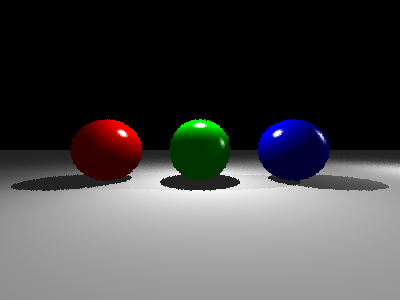
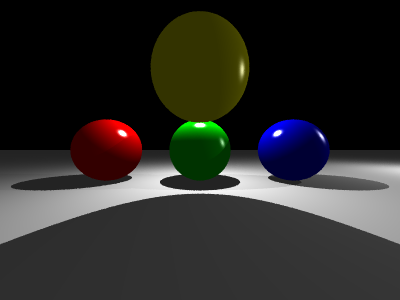
Include parallelization of render process

diff --git a/camera.py b/camera.py
@@ -9,7 +9,25 @@ from tqdm import tqdm
 from world import World
 from light import Light
 
-# NOTE: Maybe create a function to get position of pixel based on input i, j (function receives pixel position i, j and returns its 3D position)
+from multiprocessing import Pool, cpu_count
+
+# Função auxiliar para inicializar cada processo com o objeto self
+def _init_process(camera):
+    global global_camera
+    global_camera = camera
+
+# Função global para processar um único pixel
+def _process_pixel(pixel_coords):
+    i, j = pixel_coords
+    pixel_color = np.array([0.0, 0.0, 0.0])
+
+    for sample in range(global_camera.samples_per_pixel):
+        ray = global_camera.sample_ray(i, j)
+        pixel_color += global_camera.ray_color(ray)
+
+    avg_samples_color = np.divide(pixel_color, global_camera.samples_per_pixel)
+    return j, i, utils.write_color(avg_samples_color)
+
 class Camera:
     def __init__(
             self, 
@@ -20,7 +38,7 @@ class Camera:
             width:int = 400,
             center:np.ndarray = np.array([0.0, 0.0, 1.0]),
             focal_lenght:float = 1.0,
-            samples_per_pixel:int = 1,
+            samples_per_pixel:int = 20,
 
         ) -> None:
         # Default data
@@ -65,35 +83,25 @@ class Camera:
         self.pixel_00_location:np.ndarray = self.viewport_upper_left + 0.5 * (self.pixel_delta_u + self.pixel_delta_v)
 
 
-    def render(self, output_filepath:str = "output.png") -> None:
-        """
-        Cast rays and evaluates each color through auxiliary utility function
-        """
-        _t_iter:int = self.height * self.width * self.samples_per_pixel
-        _progress_bar = tqdm(total=_t_iter, desc="Progress", unit="iter")
+    def render(self, output_filepath="output.png") -> None:
+        _t_iter = self.height * self.width * self.samples_per_pixel
+        # _progress_bar = tqdm(total=_t_iter, desc="Progress", unit="iter")
 
-        for j in range(0, self.height):
-            for i in range(0, self.width):
-                # pixel_center:np.ndarray = self.pixel_00_location + (i * self.pixel_delta_u) + (j * self.pixel_delta_v)
-                # ray = Ray(self.center, pixel_center - self.center)
+        # Gerar coordenadas de pixel para cada pixel na imagem
+        pixel_coords = [(i, j) for j in range(self.height) for i in range(self.width)]
 
-                # self.pixels[j, i] = utils.write_color(self.ray_color(ray))
+        # Usar multiprocessing para processar os pixels em paralelo
+        with Pool(processes=cpu_count(), initializer=_init_process, initargs=(self,)) as pool:
+            # Mapear a função process_pixel para os pixels
+            results = pool.imap(_process_pixel, pixel_coords, chunksize=100)
 
+            # Iterar sobre os resultados para atualizar a matriz de pixels e a barra de progresso
+            for result in tqdm(results, total=len(pixel_coords), desc="Rendering"):
+                j, i, color = result
+                self.pixels[j, i] = color
                 # _progress_bar.update(1)
-                pixel_color:np.ndarray = np.array([0.0, 0.0, 0.0]) # Initial pixel color. Will be defined as the average of samples!
 
-                # For each predefined sample, generates a ray and calculates its color contribution, updating initial_color value
-                for sample in range(0, self.samples_per_pixel):
-                    ray = self.sample_ray(i, j)
-                    pixel_color += self.ray_color(ray)
-                    _progress_bar.update(1)
-            
-                avg_samples_color:np.ndarray =  np.divide(pixel_color, self.samples_per_pixel)
-            
-                self.pixels[j, i] = utils.write_color(avg_samples_color)
-
-
-        # NOTE: Maybe put this in other function
+        # Salvar a imagem renderizada
         image = Image.fromarray(self.pixels)
         image.save(output_filepath)
 

diff --git a/main.py b/main.py
@@ -25,10 +25,10 @@ def main():
                 surface=Sphere(np.array([1.5, 0.0, -1.5]), 0.5),
                 material=Material(colors.BLUE, 0.1, 0.5, 70.0, debug=False)
             ),
-            # Hittable(
-            #     surface=Sphere(np.array([0.0, -200.5, -2.0]), 200),
-            #     material=Material(np.array([0.7, 0.7, 0.7]), 0.1, 0.5, 2.0, debug=False)
-            # )
+            Hittable(
+                surface=Sphere(np.array([0.0, 0.8, -0.6]), 0.5),
+                material=Material(colors.YELLOW, 0.1, 0.5, 70.0, debug=False)
+            ),
             Hittable(
                 surface=Plane(np.array([0.0, -0.5, 0.0]), np.array([0.0, 1.0, 0.0])),
                 material=Material(np.array([0.7, 0.7, 0.7]), 0.2, 0.5, 1000.0, debug=False)
